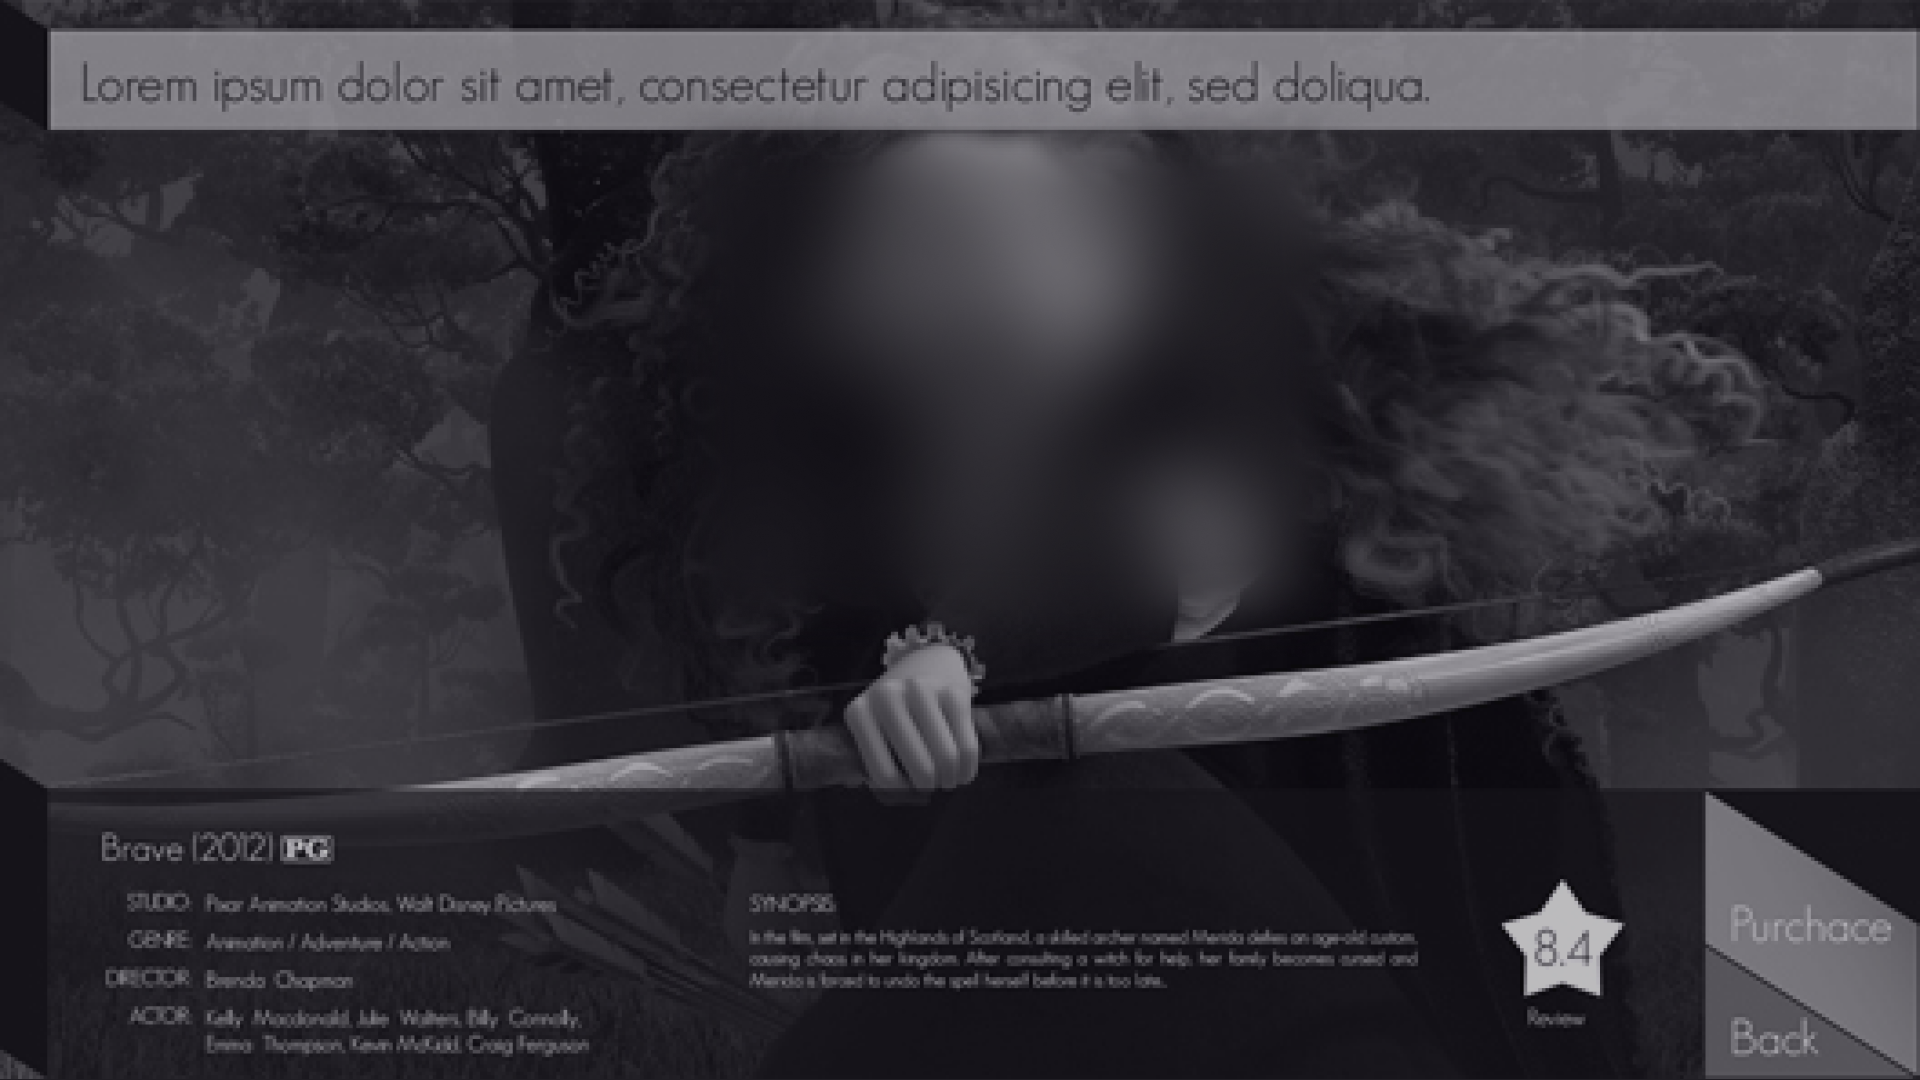
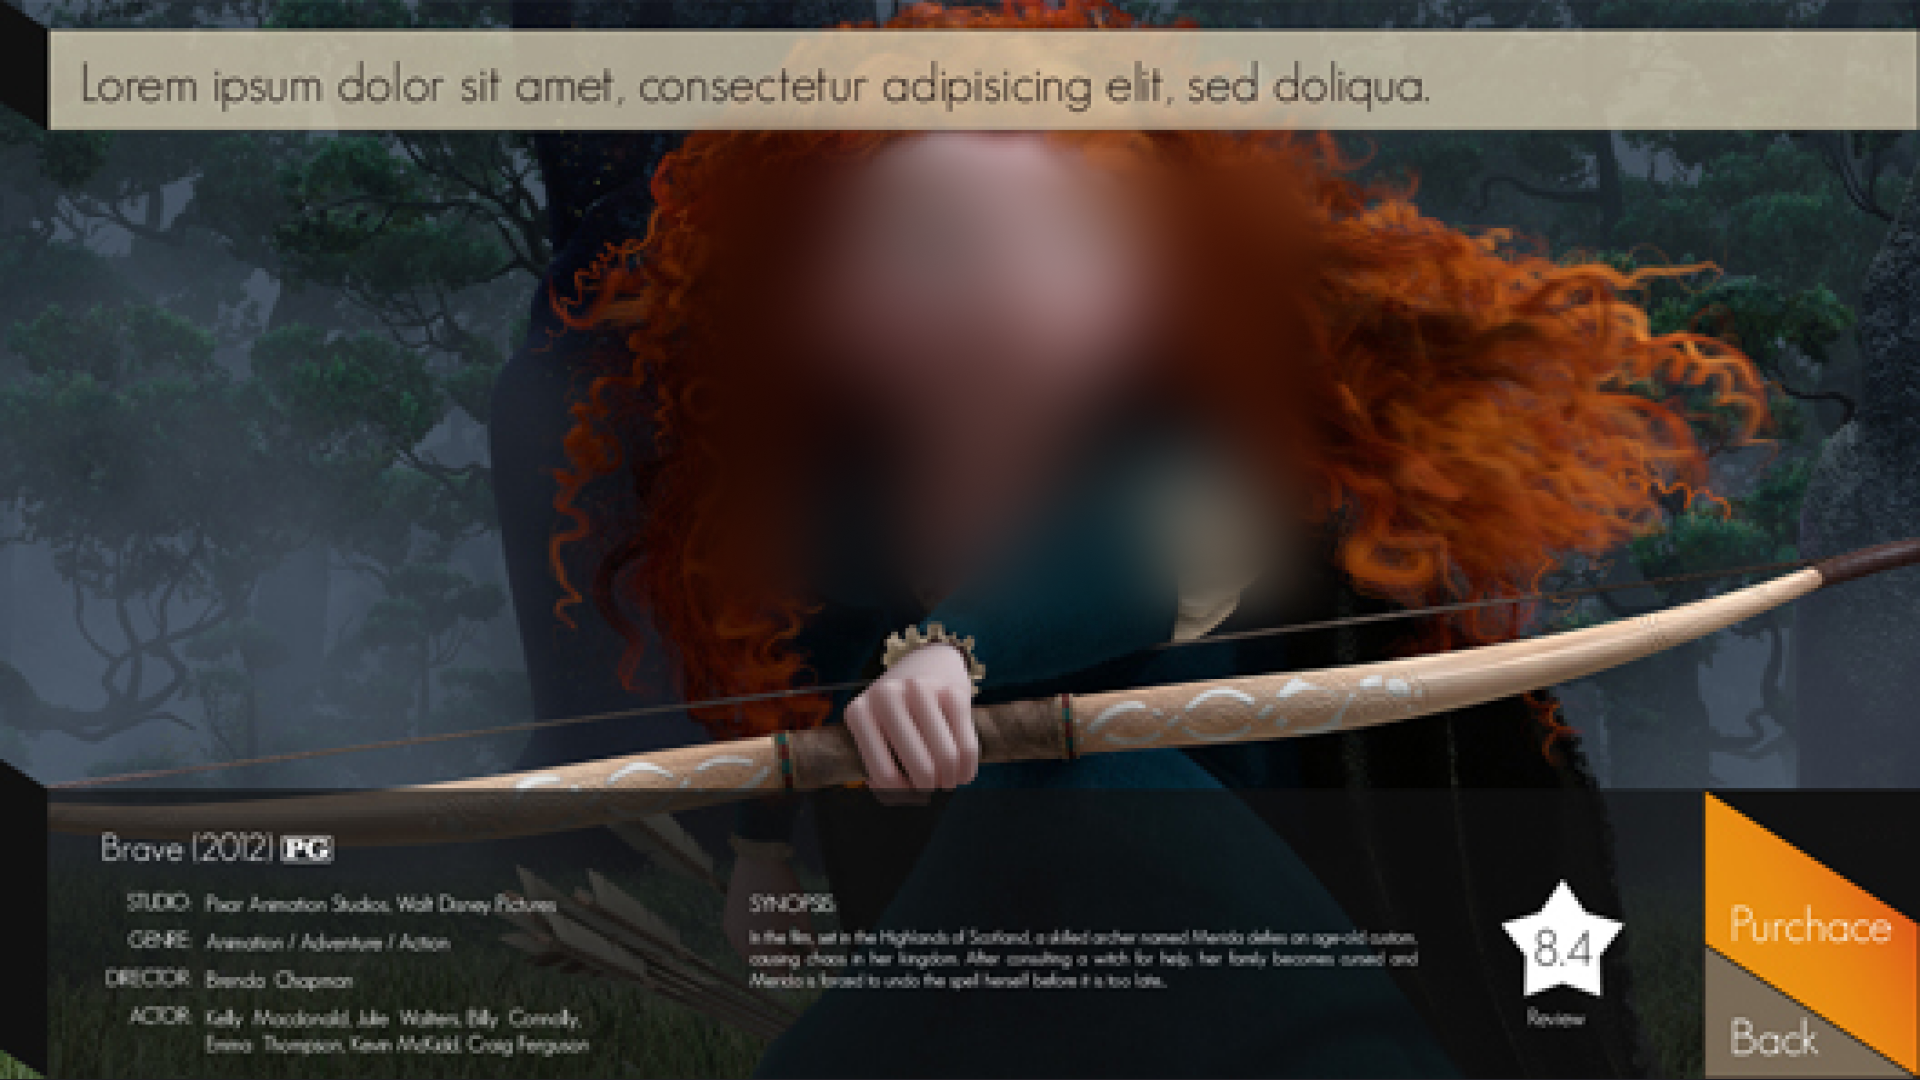
레이아웃 수정

diff --git a/src/utils/css/screen.css b/src/utils/css/screen.css
@@ -26,7 +26,7 @@ body {
   font-family: "Noto Sans KR", sans-serif;
   background: var(--color-bg);
   transition: background 0.3s ease-out;
-  transition-delay: 0.25;
+  transition-delay: 0.25s;
   word-break: keep-all; /* 한국어 줄바꿈 규칙 추가 */
   
   /* Removing the Purple Bars in Safari on iPhone */
@@ -192,7 +192,7 @@ footer.site-foot a {
   padding: 10px 12px;
   color: var(--color-base);
   font-weight: 600;
-  opacity: 1.0;
+  opacity: 1;
   box-shadow: none;
 }
 
@@ -202,15 +202,16 @@ footer.site-foot a {
   padding: 10px 12px;
   color: var(--color-base);
   font-weight: 600;
-  opacity: 0.4;
   font-size: 1.4em;
-  text-decoration: wavy underline;
+  text-decoration: none;
 }
 
 .nav-current a,
 .site-head a:hover {
-  text-decoration: wavy underline;
-  opacity: 1;
+  color: var(--color-primary);
+  text-decoration: wavy underline overline;
+  text-underline-position: under;
+  text-underline-offset: 3px;
 }
 
 .site-head-center {
@@ -221,17 +222,10 @@ footer.site-foot a {
 }
 
 .site-head-logo {
-  /*font-family: 'Libre Barcode 39', cursive;*/
   font-family: 'Noto Sans KR ',sans-serif;
   flex-shrink: 0;
   display: block;
   padding: 10px;
-  color: var(--color-base);
-  font-size: 3rem;
-  line-height: 1em;
-  font-weight: 500;
-  text-transform: uppercase;
-  letter-spacing: 3px;
 }
 
 .site-head-logo:hover {
@@ -243,6 +237,11 @@ footer.site-foot a {
   margin-top: 2px;
   width: auto;
   height: 28px;
+  transition: transform 0.3s ease; /* 애니메이션 전환 효과 추가 */
+}
+
+.site-head-logo:hover img {
+  transform: translateY(-2px);
 }
 
 .site-head-right {
@@ -414,9 +413,11 @@ footer.site-foot a {
       opacity 0.9s cubic-bezier(0.4, 0.01, 0.165, 0.99);
     transform: scale(1) translateY(0px);
   }
-  .site-head-open .nav-current a {
-    text-decoration: wavy underline;
+  .site-head-open .nav-current a,
+  .site-head-open .site-head a:hover {
     color: var(--color-primary);
+    text-decoration: wavy underline;
+    text-underline-offset: -1px;
   }
   .site-head-open .site-head-right a {
     opacity: 1;
@@ -435,17 +436,31 @@ footer.site-foot a {
 /* ---------------------------------------------------------- */
 
 .post-feed {
-
+  display: flex;
+  flex-direction: column;
+  gap: 4px; /* 포스트 간 간격 */
 }
 
 .post-card {
   display: flex;
+  transition: transform 0.3s ease; /* 변환 애니메이션을 위한 전환 효과 추가 */
+}
+
+.post-card:hover {
+  transform: translateY(-4px); /* 호버 시 카드를 위로 이동 */
 }
 
 .post-card-link {
   text-decoration: none;
   color: var(--color-base);
 }
+
+.post-card-title {
+  margin: 1.5em 0 0 0;
+  display: inline-block;
+  font-weight: bold;
+}
+
 
 /* Work Feed (Post Feed 커스터마이징을 위한 복사)
 /* ---------------------------------------------------------- */
@@ -457,27 +472,37 @@ footer.site-foot a {
 
 .work-card {
   position: relative;
-  flex: 1 0 auto;
+  flex: 1 1 auto;
   display: flex;
-  position: relative;
-  height: 16vw;
-  background: linear-gradient(135deg, #1f1f1f 0%, #111 100%) center center;
+  /*height: 16vw;*/
   background-size: cover;
   overflow: hidden;
   counter-increment: posts;
   margin: 1rem;
   border-radius: var(--radius);
+  flex-direction: column; /* 컨텐츠를 세로로 쌓음 */
+  align-items: center; /* 가로축 기준으로 중앙 정렬 */
+  max-width: 100%; /* 카드의 최대 너비를 강제함 */
+}
+
+.work-card img {
+  max-width: 105%; /* 이미지가 카드 너비를 넘지 않도록 설정 */
+  height: auto; /* 이미지 높이를 자동으로 조정 */
+  border-radius: var(--radius);
+  filter: grayscale(100%) brightness(50%);
+  transition: transform 0.3s ease, filter 0.3s ease; /* 변환 애니메이션을 위한 전환 효과 추가 */
+}
+
+.work-card:hover img {
+  filter: blur(8px) grayscale(60%) brightness(50%); /* 호버 시 이미지를 흐리게 처리 */
+  transform: scale(1.03);
 }
 
 @media (max-width: 700px) {
   .work-card {
     flex: 1 1 100%;
-    height: 24vw;
+    /*height: 24vw;*/
   }
-}
-
-.work-card-large {
-  flex: 1 1 100%;
 }
 
 .work-card-link {
@@ -518,14 +543,12 @@ footer.site-foot a {
 .work-card-title {
   margin: 0;
   display: inline-block;
-  font-size: 3.4rem;
   max-width: 70%;
   text-align: center;
   transition: all 0.3s cubic-bezier(0.33, 0, 0.2, 1);
-  text-shadow: 0px 0px 6px black;
 }
 
-/* Posts without images */
+/* Works without images */
 .work-card.no-image:before {
   display: block;
   content: counter(posts);

diff --git a/src/components/workCard.js b/src/components/workCard.js
@@ -1,28 +1,26 @@
 import React from "react"
 import { Link } from "gatsby"
 
-const WorkCard = props => (
-  <article
-    className={`work-card ${props.count % 3 === 0 && `work-card-large`} ${
-      props.postClass
-    } ${props.node.frontmatter.thumbnail ? `with-image` : `no-image`}`}
-    style={
-      props.node.frontmatter.thumbnail && {
-        backgroundImage: `url(${
-          props.node.frontmatter.thumbnail.childImageSharp.fluid.src
-        })`,
-      }
-    }
-  >
-    <Link to={props.node.fields.slug.split('/').slice(1, -1).join('/') === '' ? '/' : `/${props.node.fields.slug.split('/').slice(1, -1).join('/')}`}
-      className="work-card-link">
-      <div className="work-card-content">
-        <h2 className="work-card-title">
-          {props.node.frontmatter.title }
-        </h2>
-      </div>
-    </Link>
-  </article>
-)
+const WorkCard = props => {
+  return (
+    <article
+      className={`work-card ${props.postClass} ${props.node.frontmatter.thumbnail ? 'with-image' : 'no-image'}`}
+    >
+      {props.node.frontmatter.thumbnail && (
+        <img
+          src={props.node.frontmatter.thumbnail.childImageSharp.fluid.src}
+          alt={`${props.node.frontmatter.title} Thumbnail`} // 제목을 포함한 alt 텍스트
+          className="work-card-image"
+        />
+      )}
+      <Link to={props.node.fields.slug} className="work-card-link">
+        <div className="work-card-content">
+          <h2 className="work-card-title">{props.node.frontmatter.title}</h2>
+          {/* 여기에 메타 정보를 추가할 수 있습니다 */}
+        </div>
+      </Link>
+    </article>
+  );
+};
 
 export default WorkCard;

diff --git a/src/templates/index-page.js b/src/templates/index-page.js
@@ -1,11 +1,9 @@
 import React from "react";
-// import PropTypes from "prop-types";
 import { graphql } from "gatsby";
 import Layout from "../components/layout"
 import Seo from "../components/seo"
 import WorkCard from "../components/workCard"
 
-// eslint-disable-next-line
 const WorkPage = ({ data }) => {
   const siteTitle = data.site.siteMetadata.title
   const social = data.site.siteMetadata.social
@@ -32,8 +30,8 @@ const WorkPage = ({ data }) => {
     {/* 자기소개 섹션 추가 */}
     <div className="intro-section">
       <h1>Hi! I am Mansiksohn.<br />I’m a <b class='coloredpen'>Conversational Product Designer</b> based in Korea.</h1>
-      <p>안녕하세요! 저는 한국에서 활동하고 있는 대화형 프로덕트 디자이너입니다. 주로 음성을 사용하는 대화 인터페이스 분야에서 9년 이상의 경험을 바탕으로 제품 기획부터 사용성 평가에 이르기까지 다양한 프로젝트에 참여해 사용자 중심의 매력적인 대화경험을 만들어왔습니다.</p>
-      <p>새로운 기술을 발견과 무엇이든 만들어 내는 것에 관심이 있습니다.<br />현재는 음성 인공지능 기술을 활용한 교육서비스를 만드는데 참여하고 있습니다. 제 작업에 대해 더 깊이 알고 싶으시다면, <a href="#work">아래에서 포트폴리오</a>를 확인해 주세요.</p>
+      <p>안녕하세요! 저는 한국에서 활동하고 있는 대화형 프로덕트 디자이너입니다.<br />
+      <a href="#work">아래에서 포트폴리오</a>를 확인해 주세요.</p>
     </div>
 
     <div id="work" className="work-feed">

diff --git a/src/components/layout.js b/src/components/layout.js
@@ -25,29 +25,10 @@ const Layout = props => {
           </div>
         </button>
 
-          {/*
-          <a
-            className="nav-burger"
-            href={`#`}
-            onClick={() => setToggleNav(!toggleNav)}
-          >
-            <div
-              className="hamburger hamburger--collapse"
-              aria-label="Menu"
-              role="button"
-              aria-controls="navigation"
-            >
-              <div className="hamburger-box">
-                <div className="hamburger-inner" />
-              </div>
-            </div>
-          </a>
-          */}
-          
           <nav id="swup" className="site-head-left">
             {/* 왼쪽에 로고 이미지 커스텀 */}
             <Link className="site-head-logo" to={`/`}>
-              <img src="/img/wsis-logo.png" alt="Logo" /> {/* 로고 이미지 */}
+              <img src="/img/wsis-logo.svg" alt="Logo" /> {/* 로고 이미지 */}
             </Link>
           </nav>
           <div className="site-head-center">

diff --git a/src/pages/404.js b/src/pages/404.js
@@ -15,7 +15,7 @@ class NotFoundPage extends React.Component {
         <SEO title="404: Not Found" />
         <div className="good-bye-page">
          <h1>Not Found</h1>
-         <p>You just hit a route that doesn&#39;t exist... 🪦</p>
+         <p>404: You're in the 'In Progress' zone. <br />But don't worry, a safe path back home is provided for you.</p>
          <p><a href="/">Return Home</a>
          </p>
         </div>

diff --git a/siteConfig.js b/siteConfig.js
@@ -2,7 +2,7 @@ const siteConfig = {
   name: 'What Should I Say?',
   shortName: 'WSIS',
   description: 'Conversational Product Designer Mansiksohn',
-  url: 'https://wsis.design//', // Domain of your site without prefix!
+  url: 'https://wsis.design/', // Domain of your site without prefix!
   prefix: '/',
   author: 'MansikSohn',
   twitter: '',

diff --git a/src/components/seo.js b/src/components/seo.js
@@ -88,7 +88,7 @@ function SEO({ description, lang, meta, keywords, title, image }) {
 }
 
 SEO.defaultProps = {
-  lang: `en`,
+  lang: `ko`,
   meta: [],
   keywords: [],
   description: ``,

diff --git a/src/pages/about/index.md b/src/pages/about/index.md
@@ -12,7 +12,7 @@ featuredimage: /img/wsis-logo.png
 
 프로덕트 디자이너 MansikSohn입니다.
 대화경험을 디자인해온 프로덕트 디자이너입니다. 2012년, 기계학습이 음성 인식에 적용되기 시작한 시기부터 서비스 디자인, 기획 및 평가 업무를 해왔습니다.
-만들 수 있는 모든 것에 관심이 있습니다.
+새로운 기술을 발견하여 활용하는 것과 무엇이든 만들어 내는 것에 관심이 있습니다.
 
 ### UX 디자인/기획
 - 당연한 것은 없다는 생각을 바탕으로 본질을 고민하여 서비스를 재구성하고자 합니다.
@@ -26,7 +26,7 @@ featuredimage: /img/wsis-logo.png
 
 ### Skill
 
-- Figma를 사용한 UX 기획 및 디자인과 프로토타이핑
+- Figma를 사용한 스토리보드 작성 및 디자인과 프로토타이핑
 - 사용자 조사 및 사용성 테스트 설계 및 수행
 - 정량적 데이터를 분석하여 문제 도출 및 해결
 - 협업과 업무 프로세스 개선
@@ -39,6 +39,7 @@ featuredimage: /img/wsis-logo.png
 - 테스트와 피드백을 통한 아이디어 발전 경험
 - 인공지능 기술 이해 및 관련 업무 경험
 
+#### 사용성 평가 및 연구 경험
 | 수행 내용 | Client | 날짜 | 언어 | 인원 | 수행 업무 |
 | --- | --- | --- | --- | --- | --- |
 | 차량용 인포테인먼트의 제안 및 연결 기능 사용성 연구 | Honda | 2022-12-07 | 영어 | 36 | 분석, 설계 |

diff --git a/src/content/sold/sold-1.md b/src/content/sold/sold-1.md
@@ -1,12 +1,9 @@
 ---
 templateKey: exhibitions-sub-page
-thumbnail: /img/clay-images-10.jpg
+thumbnail: /img/wsis-logo.png
 date: 2023-03-16T04:59:59.653Z
 title: Sold 1
 description: "Generate Lorem Ipsum placeholder text. Select the number of characters, words, sentences or paragraphs, and hit generate!"
 ---
-![clay-images-11](/img/clay-images-11.jpg)
-
-![clay-images-12](/img/clay-images-12.jpg)
 
 Lorem ipsum dolor sit amet, consectetur adipiscing elit, sed do eiusmod tempor incididunt ut labore et dolore magna aliqua. Venenatis urna cursus eget nunc scelerisque. Nullam non nisi est sit amet facilisis. Quisque id diam vel quam. Morbi tincidunt augue interdum velit. Pellentesque adipiscing commodo elit at imperdiet dui accumsan. Adipiscing vitae proin sagittis nisl rhoncus mattis rhoncus urna neque. Commodo odio aenean sed adipiscing diam donec adipiscing tristique risus. Mi tempus imperdiet nulla malesuada pellentesque. Maecenas ultricies mi eget mauris pharetra et ultrices. Cursus risus at ultrices mi tempus imperdiet nulla. Sit amet nisl suscipit adipiscing bibendum est ultricies. At volutpat diam ut venenatis tellus in. Cursus eget nunc scelerisque viverra mauris in. Ut aliquam purus sit amet luctus venenatis lectus.

diff --git a/src/content/sold/sold-2.md b/src/content/sold/sold-2.md
@@ -1,12 +1,9 @@
 ---
 templateKey: exhibitions-sub-page
-thumbnail: /img/clay-images-11.jpg
+thumbnail: /img/wsis-logo.png
 date: 2023-03-06T05:10:14.676Z
 title: Sold 2
 description: "Generate Lorem Ipsum placeholder text. Select the number of characters, words, sentences or paragraphs, and hit generate!"
 ---
-![clay-images-10](/img/clay-images-10.jpg)
-
-![clay-images-12](/img/clay-images-12.jpg)
 
 Lorem ipsum dolor sit amet, consectetur adipiscing elit, sed do eiusmod tempor incididunt ut labore et dolore magna aliqua. Venenatis urna cursus eget nunc scelerisque. Nullam non nisi est sit amet facilisis. Quisque id diam vel quam. Morbi tincidunt augue interdum velit. Pellentesque adipiscing commodo elit at imperdiet dui accumsan. Adipiscing vitae proin sagittis nisl rhoncus mattis rhoncus urna neque. Commodo odio aenean sed adipiscing diam donec adipiscing tristique risus. Mi tempus imperdiet nulla malesuada pellentesque. Maecenas ultricies mi eget mauris pharetra et ultrices. Cursus risus at ultrices mi tempus imperdiet nulla. Sit amet nisl suscipit adipiscing bibendum est ultricies. At volutpat diam ut venenatis tellus in. Cursus eget nunc scelerisque viverra mauris in. Ut aliquam purus sit amet luctus venenatis lectus.

diff --git a/src/pages/elements.md b/src/pages/elements.md
@@ -1,10 +1,10 @@
 ---
 templateKey: elements
 title: Clay Gatsby Theme 
-image: /img/clay-images-7.jpg
+image: /img/wsis-logo.png
 description: A stunning Gatsby theme designed for captivating image-centric websites, perfect for photographers, portfolios, and blogs.
-thumbnail: /img/clay-images-7.jpg
+thumbnail: /img/wsis-logo.png
 heading: Main Heading
 subheading: Sub Heading
-featuredimage: /img/clay-images-7.jpg
+featuredimage: /img/wsis-logo.png
 ---

diff --git a/src/pages/blog/index.md b/src/pages/blog/index.md
@@ -2,11 +2,11 @@
 templateKey: blog-page
 title: Blog
 date: 2023-03-02T10:17:05.133Z
-thumbnail: /img/clay-images-17.jpg
+thumbnail: /img/wsis-logo.png
 description: Explore timely updates and stories on our Clay theme News page. Stay informed, inspired, and engaged with our latest articles and news.
 number: 2
 pagetype:
   - main
-featuredimage: /img/clay-images-17.jpg
+featuredimage: /img/wsis-logo.png
 ---
 
